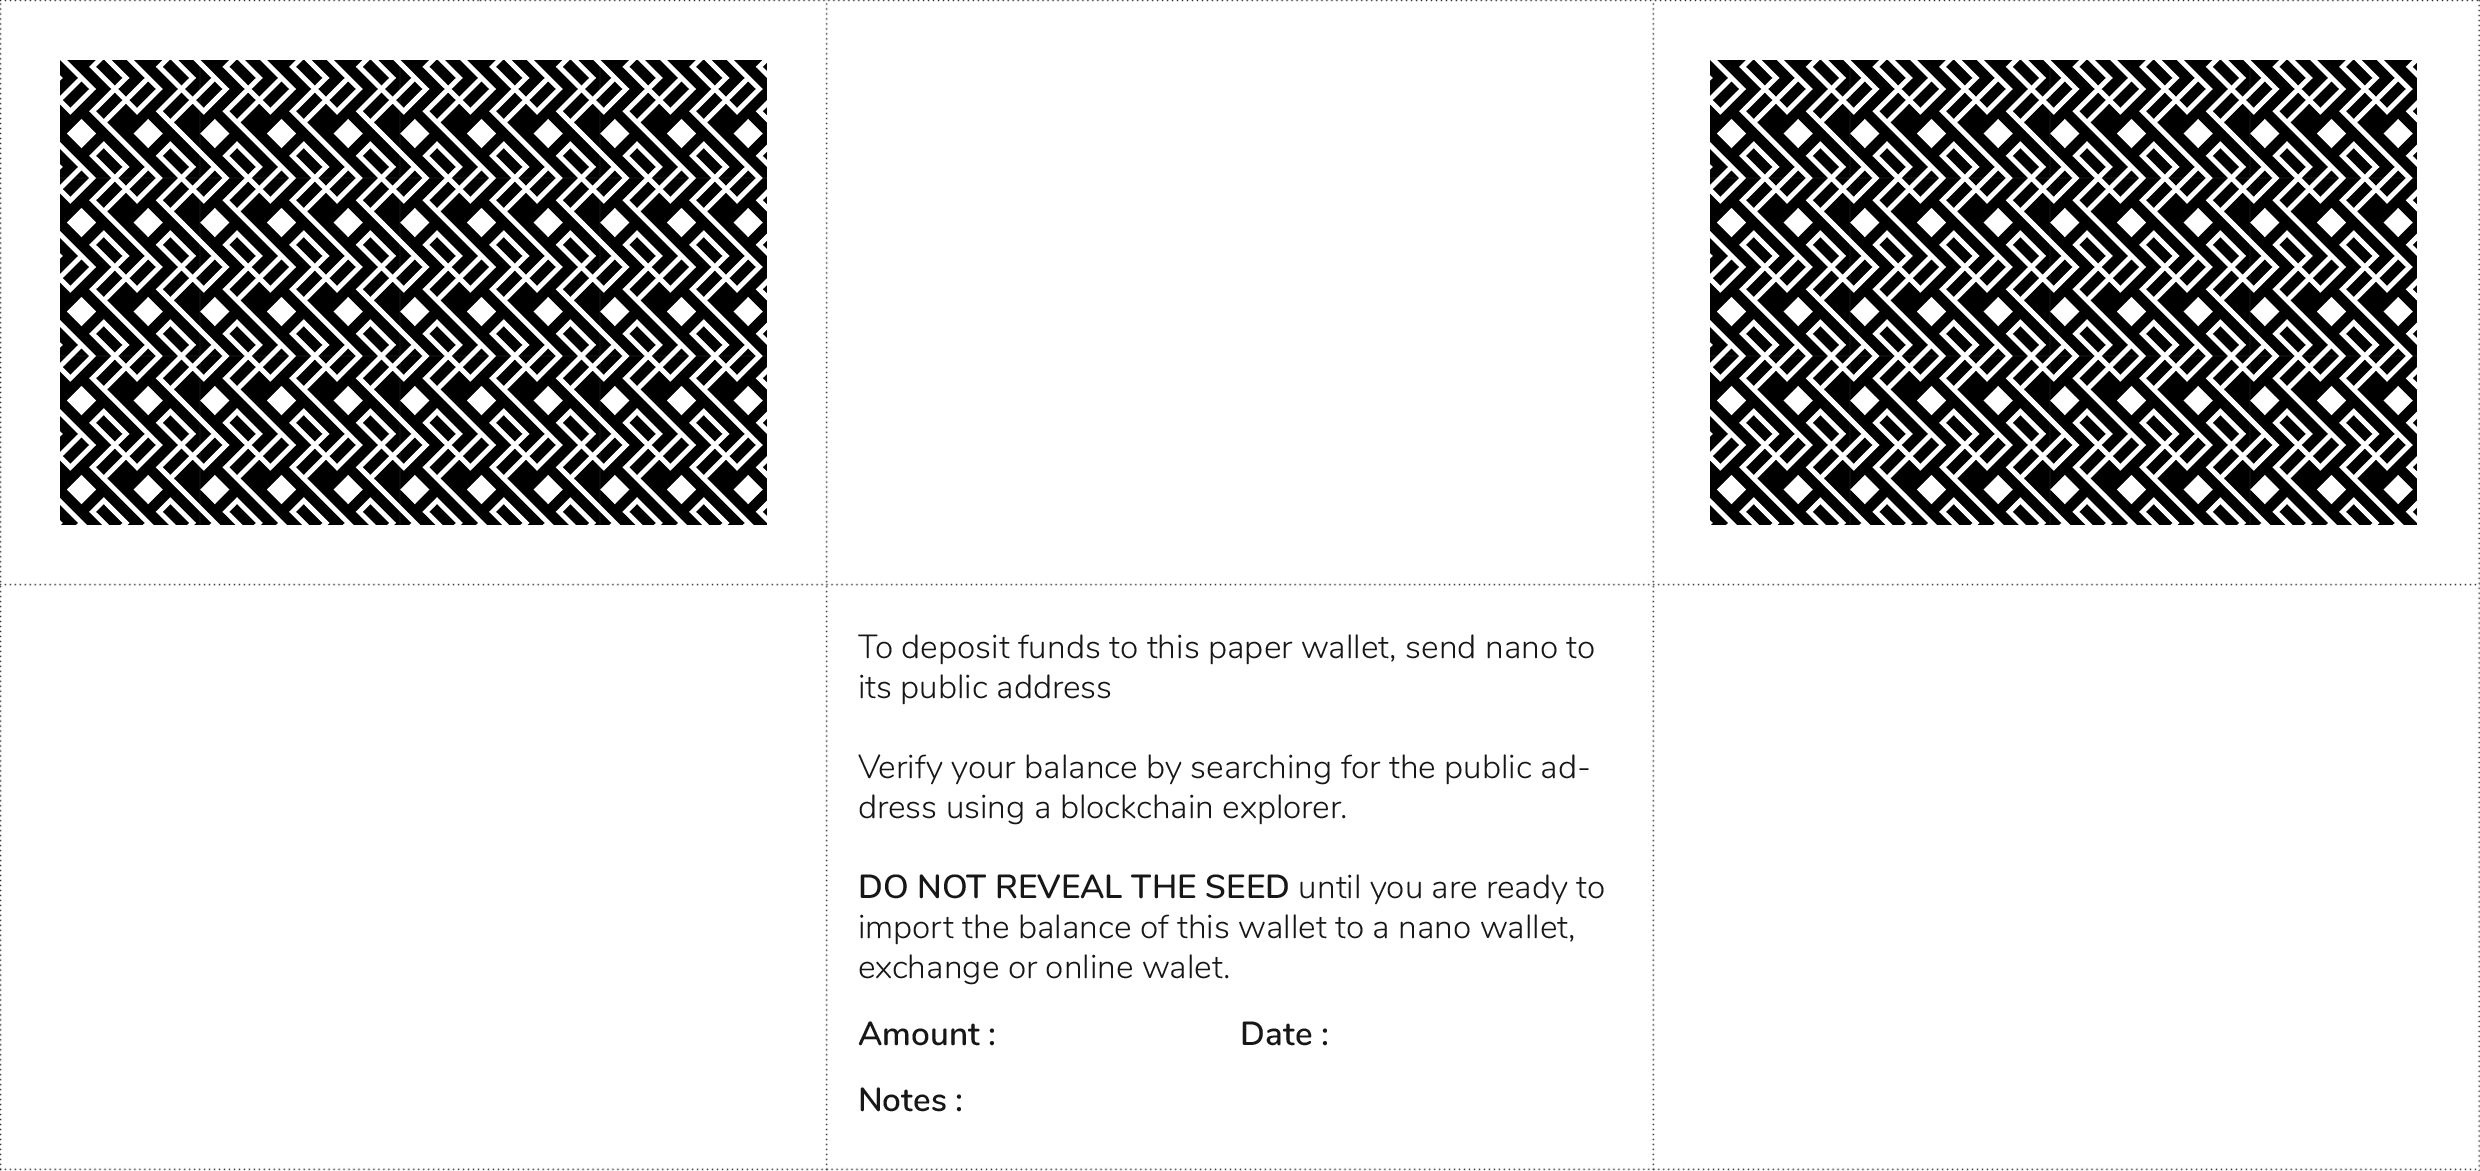
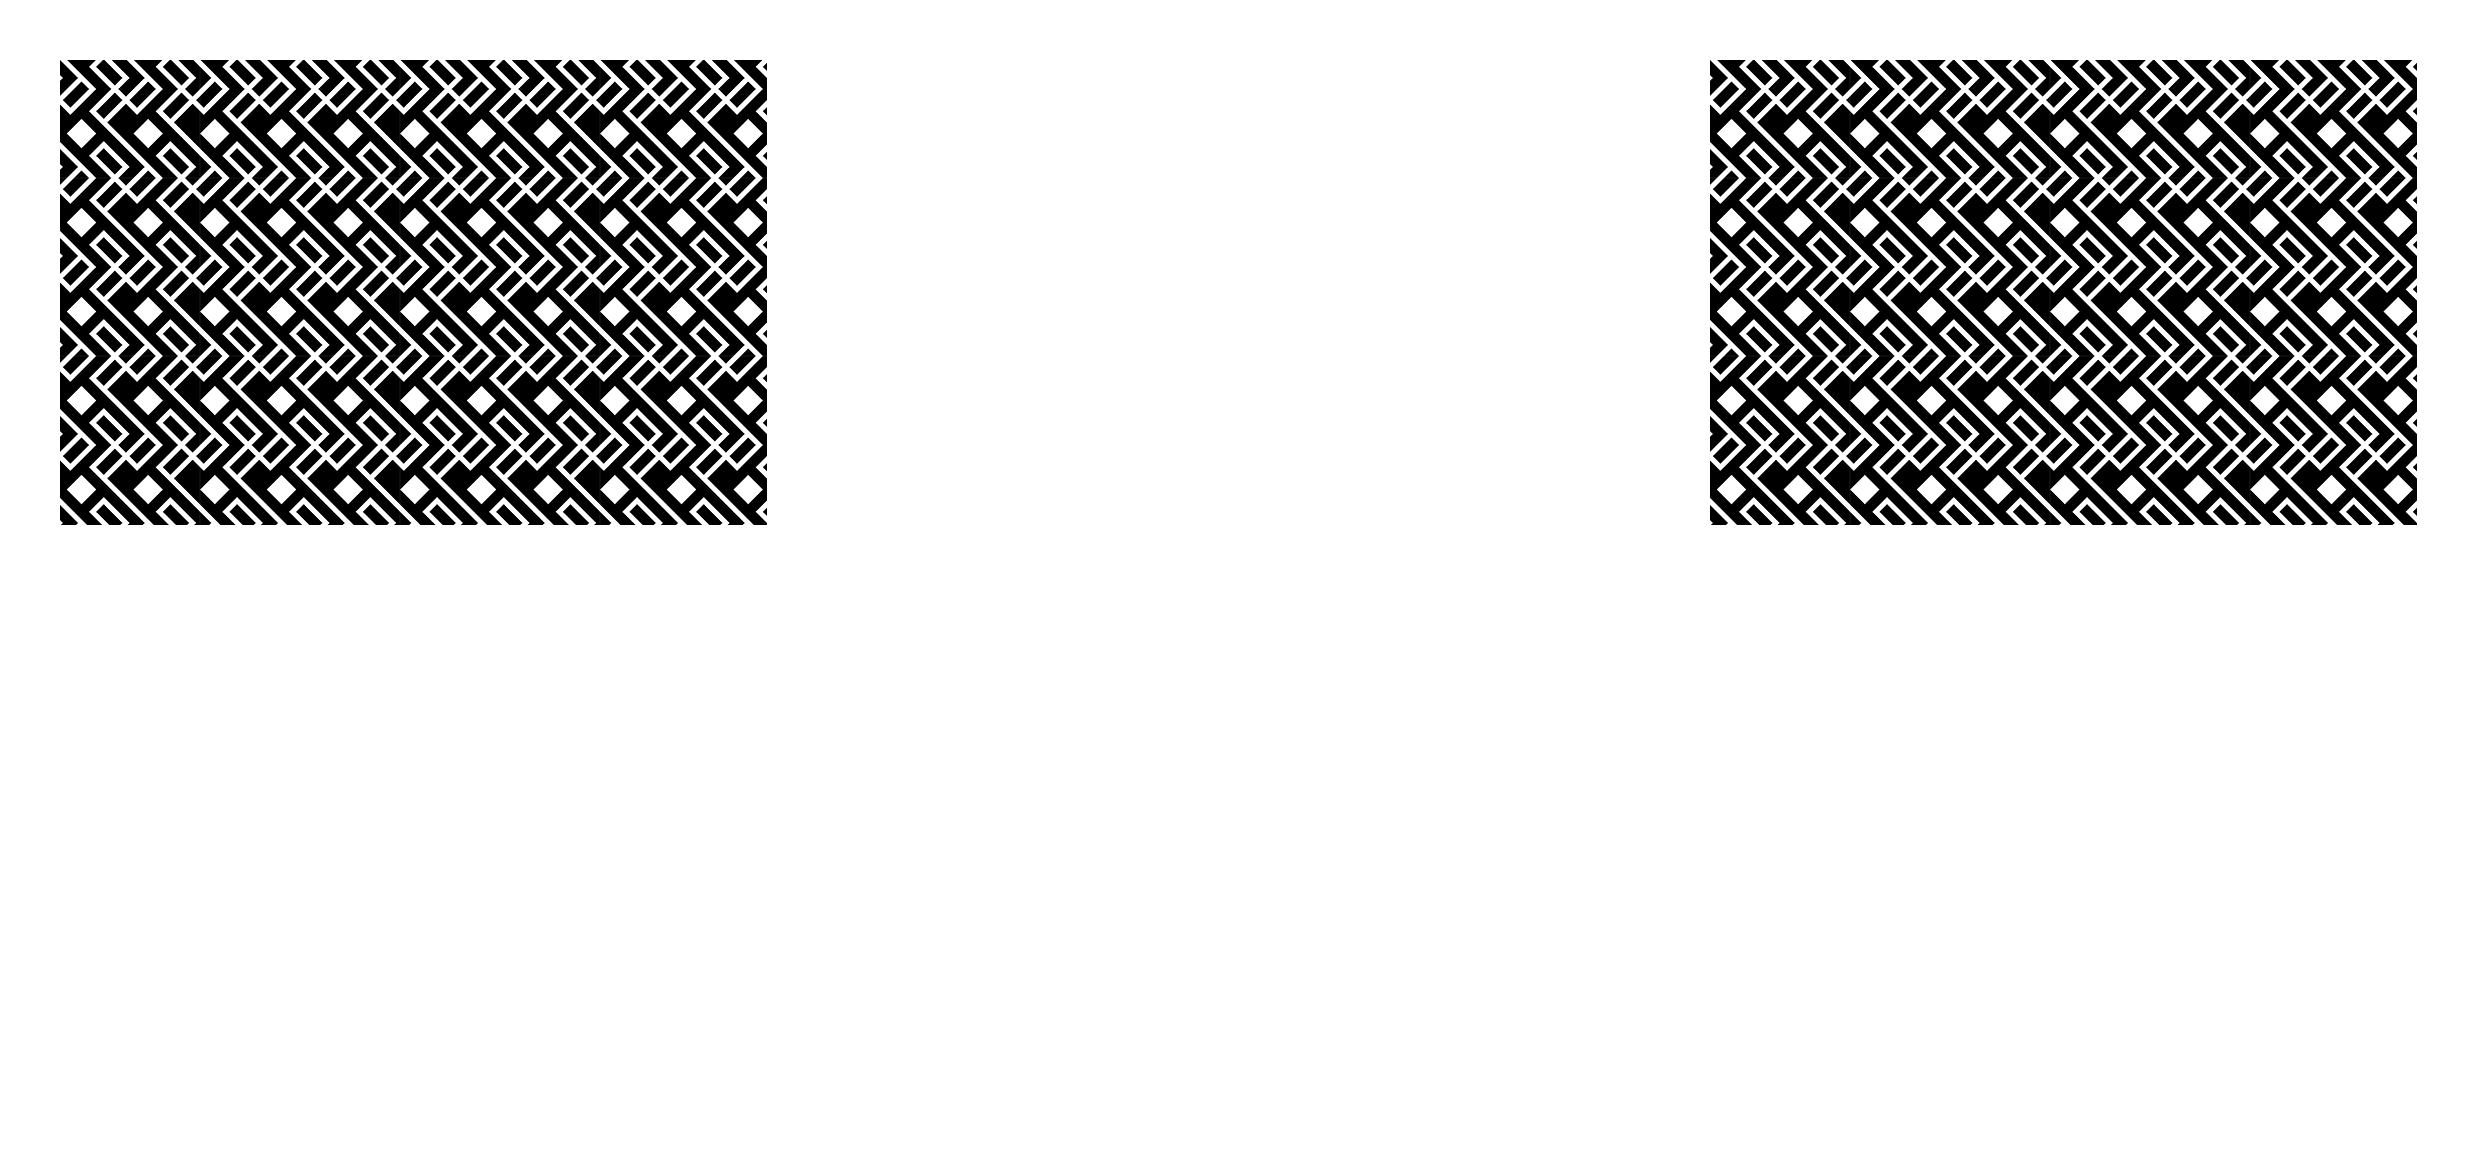
Finish paper wallet

diff --git a/src/components/Wallet.vue b/src/components/Wallet.vue
@@ -5,11 +5,12 @@
       <div class="fdcol">
       <a class="close" @click="closeWallet"><i class="fal fa-times"></i></a>
       <div class="printpos">
-        <canvas width="2480" height="3508" :id="'wallet_' + _uid"></canvas>
+        <canvas width="2480" height="3508" style="" :id="'wallet_' + _uid"></canvas>
         <div class="posbuttons">
-          <button class="btn" :class="{ outline: position !== 1}" @click="position = 1">Position 1</button>
-          <button class="btn" :class="{ outline: position !== 2}" @click="position = 2">Position 2</button>
-          <button class="btn" :class="{ outline: position !== 3}" @click="position = 3">Position 3</button>
+          <div class="print-position">A4 Print position</div>
+          <button class="btn" :class="{ outline: position !== 1}" @click="position = 1"><img src="wallet_preview.png" /></button>
+          <button class="btn" :class="{ outline: position !== 2}" @click="position = 2"><img src="wallet_preview.png" /></button>
+          <button class="btn" :class="{ outline: position !== 3}" @click="position = 3"><img src="wallet_preview.png" /></button>
         </div>
       </div>
       <button style="width: 100%; margin-top: 20px;" class="btn" @click="printWallet">Print</button>
@@ -71,7 +72,43 @@ export default {
       ctx.width = 2480
       ctx.height = 3508
 
+      const sectionwidth = 827
+      const sectionheight = 585
+
       const that = this
+
+      // Base layer
+      function drawDashedLine(x1, y1, x2, y2) {
+        ctx.beginPath()
+        ctx.setLineDash([10,10])
+        ctx.moveTo(x1, y1)
+        ctx.lineTo(x2, y2)
+        ctx.stroke()
+      }
+
+      drawDashedLine(0, this.startTop + 0, ctx.width, this.startTop + 0)
+      drawDashedLine(0, this.startTop + 585, ctx.width, this.startTop + 585)
+      drawDashedLine(0, this.startTop + 1169, ctx.width, this.startTop + 1169)
+
+      drawDashedLine(820, this.startTop + 0, 820, this.startTop + 1169)
+      drawDashedLine(1661, this.startTop + 0, 1661, this.startTop + 1169)
+
+      ctx.font = "24px Nunito"
+      ctx.fillStyle='#000000'
+      ctx.fillText('To deposit funds to this paper,', sectionwidth + 40, this.startTop + sectionheight + 100)
+      ctx.fillText('wallet, send nano to the public', sectionwidth + 40, this.startTop + sectionheight + 130)
+      ctx.fillText('address on the right', sectionwidth + 40, this.startTop + sectionheight + 160)
+
+      ctx.fillText('DO NOT REVEAL THE SEED', sectionwidth + 40, this.startTop + sectionheight + 220)
+      ctx.fillText('until you are ready to import', sectionwidth + 40, this.startTop + sectionheight + 250)
+      ctx.fillText('the balance to a nano wallet,', sectionwidth + 40, this.startTop + sectionheight + 280)
+      ctx.fillText('exchange or online wallet.', sectionwidth + 40, this.startTop + sectionheight + 310)
+
+      ctx.fillText('Amount: ', sectionwidth + 40, this.startTop + sectionheight + 390)
+      ctx.fillText('Date:', sectionwidth + 40, this.startTop + sectionheight + 470)
+
+
+      // End base layer
 
       const base_image = new Image()
       base_image.src = '/wallet.png'
@@ -80,9 +117,8 @@ export default {
         ctx.drawImage(base_image, 0, parseInt(that.startTop) + 0)
       }
 
-      const sectionwidth = 828
-      const sectionheight = 585
 
+      ctx.fillStyle='#000000'
 
       // qrCode.append(document.getElementById('private'));
 
@@ -92,10 +128,10 @@ export default {
       ctx.rotate(Math.PI);
       ctx.translate(-1240, -292);
 
-      const privateSrc = await QRCode.toDataURL(this.private)
+      const privateSrc = await QRCode.toDataURL('nanoseed:' + this.private)
 
       ctx.font = "50px Nunito"
-      ctx.fillText("S E E D", sectionwidth + 40, this.startTop + 100)
+      ctx.fillText("S E E D", sectionwidth + 40, -this.startTop + 100)
 
       console.log(this.private)
 
@@ -110,14 +146,14 @@ export default {
 
       ctx.font = "38px Monospace"
 
-      ctx.fillText(text1.split("").join(String.fromCharCode(8202)), sectionwidth + 40, this.startTop + 160)
-      ctx.fillText(text2.split("").join(String.fromCharCode(8202)), sectionwidth + 40, this.startTop + 200)
-      ctx.fillText(text3.split("").join(String.fromCharCode(8202)), sectionwidth + 40, this.startTop + 240)
-      ctx.fillText(text4.split("").join(String.fromCharCode(8202)), sectionwidth + 40, this.startTop + 280)
-      ctx.fillText(text5.split("").join(String.fromCharCode(8202)), sectionwidth + 40, this.startTop + 320)
-      ctx.fillText(text6.split("").join(String.fromCharCode(8202)), sectionwidth + 40, this.startTop + 360)
-      ctx.fillText(text7.split("").join(String.fromCharCode(8202)), sectionwidth + 40, this.startTop + 400)
-      ctx.fillText(text8.split("").join(String.fromCharCode(8202)), sectionwidth + 40, this.startTop + 440)
+      ctx.fillText(text1.split("").join(String.fromCharCode(8202)), sectionwidth + 40, -this.startTop + 160)
+      ctx.fillText(text2.split("").join(String.fromCharCode(8202)), sectionwidth + 40, -this.startTop + 200)
+      ctx.fillText(text3.split("").join(String.fromCharCode(8202)), sectionwidth + 40, -this.startTop + 240)
+      ctx.fillText(text4.split("").join(String.fromCharCode(8202)), sectionwidth + 40, -this.startTop + 280)
+      ctx.fillText(text5.split("").join(String.fromCharCode(8202)), sectionwidth + 40, -this.startTop + 320)
+      ctx.fillText(text6.split("").join(String.fromCharCode(8202)), sectionwidth + 40, -this.startTop + 360)
+      ctx.fillText(text7.split("").join(String.fromCharCode(8202)), sectionwidth + 40, -this.startTop + 400)
+      ctx.fillText(text8.split("").join(String.fromCharCode(8202)), sectionwidth + 40, -this.startTop + 440)
 
       ctx.restore();
 
@@ -130,7 +166,7 @@ export default {
       ctx.rotate(Math.PI);
       ctx.translate(-1240, -292);
 
-        ctx.drawImage(privateQr, sectionwidth + 400, that.startTop + y, 400, 400)
+        ctx.drawImage(privateQr, sectionwidth + 400, -that.startTop + y, 400, 400)
         ctx.restore();
       }
       privateQr.src = privateSrc
@@ -139,10 +175,10 @@ export default {
       // End private
 
       // Address
-      const publicSrc = await QRCode.toDataURL(this.public)
+      const publicSrc = await QRCode.toDataURL('nano:' + this.public)
 
       ctx.font = "50px Nunito"
-      ctx.fillText("A D D R E S S", (sectionwidth * 2) + 40, this.startTop + sectionheight + 100)
+      ctx.fillText("A D D R E S S", 40, this.startTop + sectionheight + 100)
 
       console.log(this.public)
 
@@ -157,22 +193,23 @@ export default {
 
       ctx.font = "38px Monospace"
       ctx.fillStyle='#d43789'
-      ctx.fillText(text1.split("").join(String.fromCharCode(8202)), (sectionwidth * 2) + 40, this.startTop + sectionheight + 160)
+      ctx.fillText(text1.split("").join(String.fromCharCode(8202)), 40, this.startTop + sectionheight + 160)
       ctx.fillStyle='#000000'
-      ctx.fillText(text2.split("").join(String.fromCharCode(8202)), (sectionwidth * 2) + 40, this.startTop + sectionheight + 200)
-      ctx.fillText(text3.split("").join(String.fromCharCode(8202)), (sectionwidth * 2) + 40, this.startTop + sectionheight + 240)
-      ctx.fillText(text4.split("").join(String.fromCharCode(8202)), (sectionwidth * 2) + 40, this.startTop + sectionheight + 280)
-      ctx.fillText(text5.split("").join(String.fromCharCode(8202)), (sectionwidth * 2) + 40, this.startTop + sectionheight + 320)
-      ctx.fillText(text6.split("").join(String.fromCharCode(8202)), (sectionwidth * 2) + 40, this.startTop + sectionheight + 360)
-      ctx.fillText(text7.split("").join(String.fromCharCode(8202)), (sectionwidth * 2) + 40, this.startTop + sectionheight + 400)
+      ctx.fillText(text2.split("").join(String.fromCharCode(8202)), 40, this.startTop + sectionheight + 200)
+      ctx.fillText(text3.split("").join(String.fromCharCode(8202)), 40, this.startTop + sectionheight + 240)
+      ctx.fillText(text4.split("").join(String.fromCharCode(8202)), 40, this.startTop + sectionheight + 280)
+      ctx.fillText(text5.split("").join(String.fromCharCode(8202)), 40, this.startTop + sectionheight + 320)
+      ctx.fillText(text6.split("").join(String.fromCharCode(8202)), 40, this.startTop + sectionheight + 360)
+      ctx.fillText(text7.split("").join(String.fromCharCode(8202)), 40, this.startTop + sectionheight + 400)
       ctx.fillStyle='#d43789'
-      ctx.fillText(text8.split("").join(String.fromCharCode(8202)), (sectionwidth * 2) + 40, this.startTop + sectionheight + 440)
+      ctx.fillText(text8.split("").join(String.fromCharCode(8202)), 40, this.startTop + sectionheight + 440)
       
       const publicQr = new Image()
       publicQr.onload = function () {
         that.loaded += 1
         let y = ((sectionheight - 400) / 2) + sectionheight
-        ctx.drawImage(publicQr, (sectionwidth * 2) + 400, that.startTop + y, 400, 400)
+        ctx.drawImage(publicQr, 400, that.startTop + y, 400, 400)
+        ctx.drawImage(publicQr, sectionwidth + 400, that.startTop + y, 400, 400)
       }
       publicQr.src = publicSrc
 
@@ -188,7 +225,7 @@ export default {
       const logo_image = new Image()
       logo_image.onload = function(){
         that.loaded += 1
-        let x = (sectionwidth - logo_image.width) / 2
+        let x = (sectionwidth * 2) + (sectionwidth - logo_image.width) / 2
         let y = that.startTop + ((sectionheight - logo_image.height) / 2)
 
         ctx.drawImage(logo_image, x, sectionheight + y)
@@ -216,19 +253,37 @@ export default {
 }
 </script>
 <style lang="scss">
+.print-position {
+  margin-bottom: 8px;
+}
 .posbuttons {
   display: flex;
   flex-direction: column;
   justify-content: space-evenly;
+  button {
+    border-radius: 0;
+    &.btn {
+      padding: 0;
+    }
+    &.outline {
+      img {
+        opacity: 0.1;
+      }
+    }
+  }
+  img {
+    width: 220px;
+  }
 }
 .printpos {
   display: flex;
   canvas {
     background: white; 
-    max-width: 200px; 
+    max-width: 500px; 
     height: auto;
     margin-right: 20px;
     border-radius: 20px;
+    display: none!important;
   }
 }
 .fdcol {
